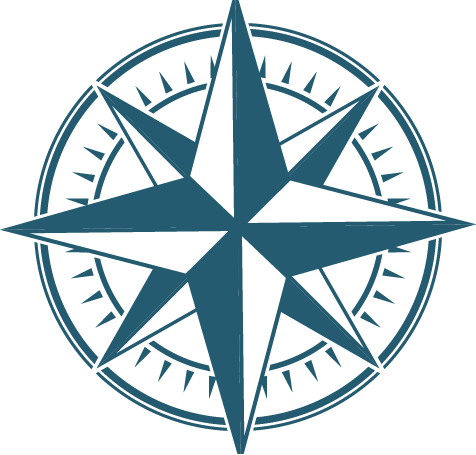
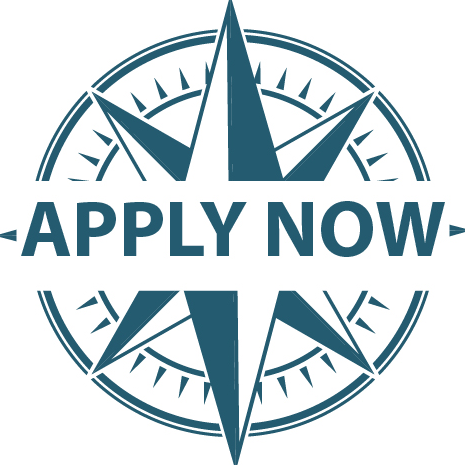
apply now button fixed

Changed region(s): [[0.0, 0.0, 1.0, 1.0], [0.3613, 0.6769, 0.4215, 0.7077], [0.4817, 0.7692, 0.5118, 0.8]]

diff --git a/css/style.css b/css/style.css
@@ -589,12 +589,18 @@ transform: rotate(45deg);
   .service-box{
     max-width: 50%;
   }
+  .gobottombtn{
+	width: 12.5%;
+}
 }
 
 @media screen and (max-width:480px) {
   .service-box{
     max-width: 100%;
   }
+  .gobottombtn{
+	width: 12.5%;
+}
 }
 
 
@@ -607,14 +613,17 @@ transform: rotate(45deg);
 	.ten{
 		width: 100%;
 	}
+	.gobottombtn{
+		width: 12.5%;
+	}
   }
 	.gobottombtn{
 	  position: fixed;
-	  width: 10%;
+	  width: 5%;
 	  background-image: url(../img/apply1.png);
 	  bottom: 2.5%;
 	  right: 2.5%;
-	  padding-bottom: 10%;
+	  padding-bottom: 7%;
 	  text-decoration: none;
 	  text-align: center;
 	  background-repeat: no-repeat;
